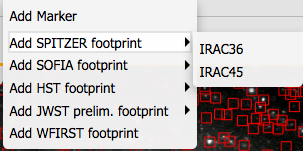
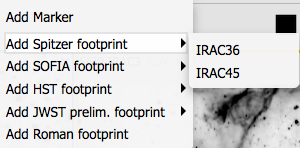
nearly done updates for recent changes

diff --git a/html/firefly/visualization.html b/html/firefly/visualization.html
@@ -63,7 +63,7 @@ To change the units of the readout, click on the name of the readout
 (in the example here, "Pixel Size" or "EQ-J2000" or "Image
 Pixel"):<br>
 <img src="img/pixelreadoutpopups.png"><br>
-You can change it to other values, as shown.<P>
+You can change it to several other coordinate systems, as shown.<P>
 
 You can make it 'stick' on a particular place on the image -- tick the
 "Lock by click" box and then click on the image at your desired
@@ -178,12 +178,14 @@ save icon. Be sure to save the cropped FITS image (see annotated
 figure). This feature is not available for HiPS images.<br> <img
 src="img/savecropped.png"> <P>
 
-Note that if you <a href="catalogs.html">overlay a large catalog</A>,
+
+Note that if you overlay a large catalog,
 then turn around and save a regions file from the catalog overlay, the
 full catalog may not be saved to the regions file. If you have
 &gt;15,000 sources, enough that the accompanying plot is shown in
-shades of grey, not every source will be overlaid on the image, even
-if you zoom in, and thus will not be in the regions file.<P>
+shades of grey, <strong>not every source will be overlaid on the
+image</strong>, even if you zoom in, and thus will not be in the
+regions file.<P>
 
 The saved PNG is the same size as it is on your screen. If you want a
 big version, make the desired image big on your screen (view
@@ -208,6 +210,9 @@ you to more rapidly select the zoom level (field of view) you want.
 Select the desired level, or click on the 'x' in the upper right to
 make the window go away. Here is an example: <br><img
 src="img/zoomlevel.png"><P>
+
+You can alternatively zoom using the mouse wheel (or drag forward
+and backward on a touchpad or magic mouse).<P>
 
 Note that there is a maximum (or minimum) allowed zoom level, and they
 are different for FITS and HiPS images. A notification will appear
@@ -252,11 +257,18 @@ might not be what you want to do. <P>
 
 <dt><img src="img/colortable.png"> <em>Changing the color table.</em>
 <dd>This icon enables you to change the color table of the
-displayed image. (This option is only available for FITS, not HiPS,
+displayed image. (This option is available for FITS and HiPS
 images.)  When you click the button, a pull-down menu appears
 with a wide variety of color table choices. Select your new color
 table from the options shown:<br>
 <img src="img/colortableoptions.png"><P>
+The arrow in the upper right creates a pop-up window out of this
+pulldown menu so that you can leave the choices up while settling on
+the best option. Click to select the color table you want.
+Alternatively, you can use the "color bar" slider to move among the
+color tables. Below the color bar slider, there are sliders
+controlling the bias and contrast. Click or drag the slider to change
+the image display.<P>
 
 <dt><img src="img/stretch.png"> <em>Changing the color stretch.</em>
 <dd>This icon enables you to change the color stretch of the
@@ -820,9 +832,10 @@ href="http://cdsweb.u-strasbg.fr/" target="_blank">CDS <img
         src="img/jumpout.jpg" height="10"></A>. <P>
 
 HiPS images have the color and stretch set by the person who
-originally made them. Thus, you cannot change the color/stretch of
-HiPS images from within IRSA Viewer. This is why there may be multiple
-versions of some data sets in the list of HiPS images.<P>
+originally made them. The color table can be remapped within this
+tool. But, you cannot change the stretch of HiPS images from within
+IRSA Viewer. This is why there may be multiple versions of some data
+sets in the list of HiPS images.<P>
 
 You can't save HiPS images from within Firefly tools. To download your
 own copy, you will have to track down the original source of the
@@ -863,10 +876,10 @@ seconds, they vanish.<P>
 <LI>Some of these footprints are <em>large</em>. If you have a small
 image, some of these footprints will be larger than your image. Zoom
 out to see it, or find a larger image to use. If you overlay, say, a
-Nancy Grace Roman Space Telescope (WFIRST) footprint on a 2MASS image,
-you may need to zoom out a considerable amount before you can see the
-Roman footprint. You will see the center indicator of the marker
-before you will see the Roman footprint itself. 
+Nancy Grace Roman Space Telescope (formerly WFIRST) footprint on a
+2MASS image, you may need to zoom out a considerable amount before you
+can see the Roman footprint. You will see the center indicator of the
+marker before you will see the Roman footprint itself. 
 <LI>You can add multiple copies of the same marker using the layers
 pop-up (described generally above).  From the layers pop-up, there is
 a link right under the 'angle' option that says "Add [marker type]" --
@@ -978,8 +991,8 @@ rotate it, or drag the big circle to move it. Change the color,
 delete, or add more copies of the footprints from the layers
 pop-up.<P>
 
-<img src="img/wfirst.png"> <strong>Nancy Grace Roman Space Telescope
-(WFIRST) focal plane footprint.</strong> As above, the footprint can
+<img src="img/wfirst.png"> <strong>Nancy Grace Roman Space Telescope 
+focal plane footprint.</strong> As above, the footprint can
 be moved or rotated. Click and drag the boresight (the cross hairs),
 which appears by default to the upper right of the array of squares. 
 A circle appears, centered on the boresight, with four small circles
@@ -989,10 +1002,10 @@ overlay the footprint on a very small image, nothing will appear to
 have happened. You need at least a 60 arcmin image to comfortably see
 the footprint, and even then you will probably have to click and drag
 to see the entire footprint. Consult the <a
-href="https://wfirst.ipac.caltech.edu/" target="_blank">WFIRST
+href="https://wfirst.ipac.caltech.edu/" target="_blank">Roman
 documentation <img src="img/jumpout.jpg" height="10"></A> for
 specifics on the apertures. Change the color, delete, or add more
-copies of the WFIRST footprint from the layers pop-up.<P> 
+copies of the Roman footprint from the layers pop-up.<P> 
 
 
 

diff --git a/app/src/toc/firefly_toc.js b/app/src/toc/firefly_toc.js
@@ -173,20 +173,101 @@ export const toc_tables = {
             title: 'Saving Tables',
             href: 'firefly/tables.html#save',
         },
-        {
-            id: 'tables.catalogs',
-            title: 'Catalogs',
-            href: 'firefly/tables.html#catalogs',
-        },
+    ]
+};
+
+const toc_catalogs = {
+    id: 'catalogs',
+    title: 'Catalogs',
+    href: 'firefly/catalogs.html',
+    items: [
         {
             id: 'basics.catalogs',
             title: 'Catalogs',
             href: 'firefly/tables.html#catalogs',
              hidden: true,
         },
+        {
+            id: 'catalogs.catalogs',
+            title: 'IRSA Catalogs',
+            href: 'firefly/catalogs.html#catalogs',
+             hidden: true,
+        },
+        {
+            id: 'catalogs.irsacatalogs',
+            title: 'IRSA Catalogs',
+            href: 'firefly/catalogs.html#irsacatalogs',
+        },
+        {
+            id: 'catalogs.nedcatalogs',
+            title: 'NED Catalogs',
+            href: 'firefly/catalogs.html#nedcatalogs',
+        },
+        {
+            id: 'catalogs.owncatalogs',
+            title: 'Your Own Catalogs',
+            href: 'firefly/catalogs.html#owncatalogs',
+        },
+        {
+            id: 'catalogs.votap',
+            title: 'VO TAP Search',
+            href: 'firefly/catalogs.html#votap',
+        },
+        {
+            id: 'catalogs.voscs',
+            title: 'VO SCS Search',
+            href: 'firefly/catalogs.html#voscs',
+        },
+        {
+            id: 'tapSearches.form',
+            title: 'VO TAP Search',
+            href: 'firefly/catalogs.html#tapSearches.form',
+             hidden: true,
+        },
+        {
+            id: 'tapSearches.tapService',
+            title: 'Select TAP Service',
+            href: 'firefly/catalogs.html#tapSearches.tapService',
+             hidden: true,
+        },
+        {
+            id: 'tapSearches.selectBy',
+            title: 'Select Query Type',
+            href: 'firefly/catalogs.html#tapSearches.selectBy',
+             hidden: true,
+        },
+         {
+            id: 'tapSearches.selectTable',
+            title: 'Select Table',
+            href: 'firefly/catalogs.html#tapSearches.selectTable',
+             hidden: true,
+        },
+         {
+            id: 'tapSearches.constraints',
+            title: 'Enter Constraints',
+            href: 'firefly/catalogs.html#tapSearches.constraints',
+             hidden: true,
+        },
+         {
+            id: 'tapSearches.spatial',
+            title: 'Spatial Constraints',
+            href: 'firefly/catalogs.html#tapSearches.spatial',
+             hidden: true,
+        },
+         {
+            id: 'tapSearches.temporal',
+            title: 'Temporal Constraints',
+            href: 'firefly/catalogs.html#tapSearches.temporal',
+             hidden: true,
+        },
+         {
+            id: 'tapSearches.adql',
+            title: 'ADQL',
+            href: 'firefly/catalogs.html#tapSearches.adql',
+             hidden: true,
+        },
     ]
 };
-
 
 export const toc_plots = {
     id: 'plots',
@@ -253,6 +334,7 @@ export const fireflyToc = [
     toc_about,
     toc_visualization,
     toc_tables,
+    toc_catalogs,
     toc_plots,
     toc_user,
     toc_privacy

diff --git a/html/firefly/tables.html b/html/firefly/tables.html
@@ -242,8 +242,7 @@ imposed to only include the 6 rows you selected.<P>
 
 
 You can also interactively impose filters from <a
-href="plots.html">plots</A> from the catalog - see the next
-section.<P>
+href="plots.html">plots</A> from the catalog - see that section.<P>
 
 
 If you click on the table options icon (<img
